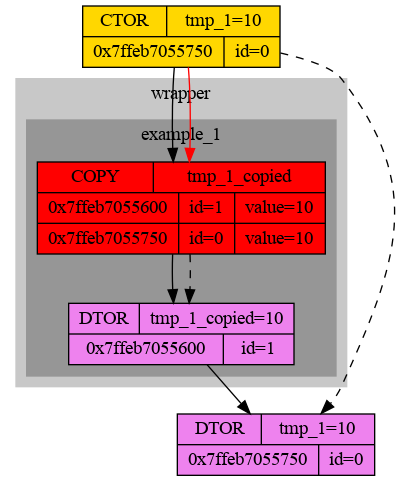
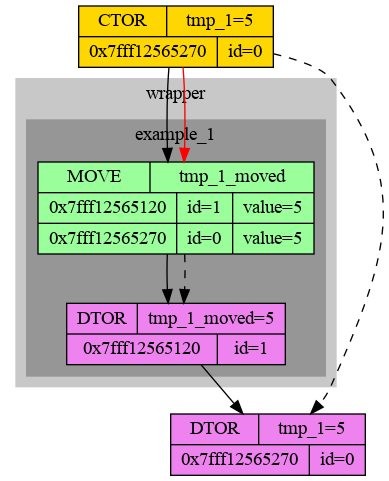
Update examples

diff --git a/Move&forward_research/dump.html b/Move&forward_research/dump.html
@@ -9,27 +9,27 @@ P {
 
 <p><font size="3" color="gold">[Calling_trace] CTOR Int::Int(int, std::string)
 </font>
-	<font size="3" color="gold">└──>[0x7fffcdd3e7f0]: id = 0, tmp_1=5
+	<font size="3" color="gold">└──>[0x7fff12565270]: id = 0, tmp_1=5
 </font>
 <font size="3" color="gold">
 </font>
 <font size="3" color="green">[Calling_trace] MOVE Int::Int(const Int&&)
 </font>
-	<font size="3" color="green">└──>[0x7fffcdd3e6a0]: left  id = 1, tmp_1_moved=5
+	<font size="3" color="green">└──>[0x7fff12565120]: left  id = 1, tmp_1_moved=5
 </font>
-	<font size="3" color="green">└──>[0x7fffcdd3e7f0]: right id = 0, tmp_1=5
+	<font size="3" color="green">└──>[0x7fff12565270]: right id = 0, tmp_1=5
 </font>
 <font size="3" color="green">
 </font>
 <font size="3" color="purple">[Calling_trace] DTOR Int::~Int()
 </font>
-	<font size="3" color="purple">└──>[0x7fffcdd3e6a0]: id = 1, tmp_1_moved=5
+	<font size="3" color="purple">└──>[0x7fff12565120]: id = 1, tmp_1_moved=5
 </font>
 <font size="3" color="purple">
 </font>
 <font size="3" color="purple">[Calling_trace] DTOR Int::~Int()
 </font>
-	<font size="3" color="purple">└──>[0x7fffcdd3e7f0]: id = 0, tmp_1=5
+	<font size="3" color="purple">└──>[0x7fff12565270]: id = 0, tmp_1=5
 </font>
 <font size="3" color="purple">
 </font>
